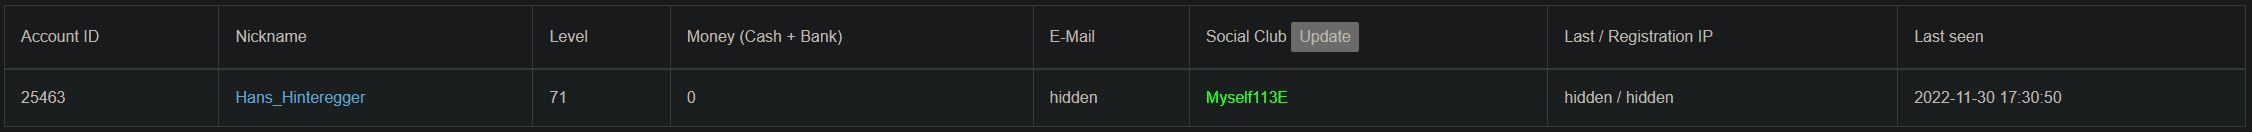
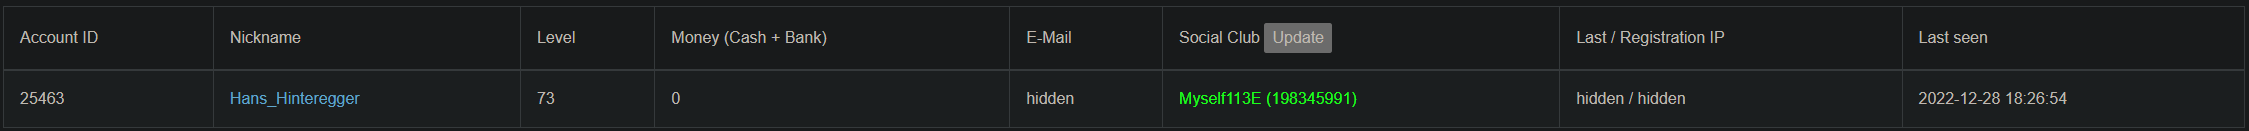
grsi: Update Documentation for 5.0.1

diff --git a/Readme.md b/Readme.md
@@ -4,13 +4,37 @@
 ## Features
 
 ### ACP
+#### SocialClub
 * SocialClubs link to the member search on the Rockstar SocialClub Website (Authorization Logs as well as Player Search)
 * Color-Highlight valid/invalid SC Accounts (Authorization Logs as well as Player Search)
+* Option: Show SocialClub ID behind SocialClub names
+* Context Menu on SocialClub field
+	* Trigger a background check
+	* Update all SocialClub entries
+	* Mark/Unmark SocialClub accounts as known cheater
+	* Copy SocialClub Name
+	* Copy SocialClub ID
+	* Reset All data on a specific SocialClub
+
+#### Money Logs
+* Highlight Money transfers over 5 Million
+* Add pages to a summary that will show the total amount incoming/outgoing by day in a different tab
+
+#### All Logs with Pages
+* Field to go to desired page
+* Search a page by date (done through binary search, page will reload multiple times during search until done)
+	* Time 0:00: Search for just the date
+	*  Time X:00: Search for date and hour
+	* Time X:XX: Search for date, hour and minute
+
+#### Common
+* Scroll to top by clicking the russian headlines
 
 ### SocialClub Website
 * Buttons to manually store if Account is valid or not
 * Option: Color Highlight exact matches
-* Option: Show SocialClub ID for match or all accounts from a search
+* Show SocialClub ID for match
+* Option: Show SocialClub ID for all accounts from a search
 
 ### Common
 * Local storage system using Tampermokeys ```GM_getValue``` and ```GM_setValue``` features
